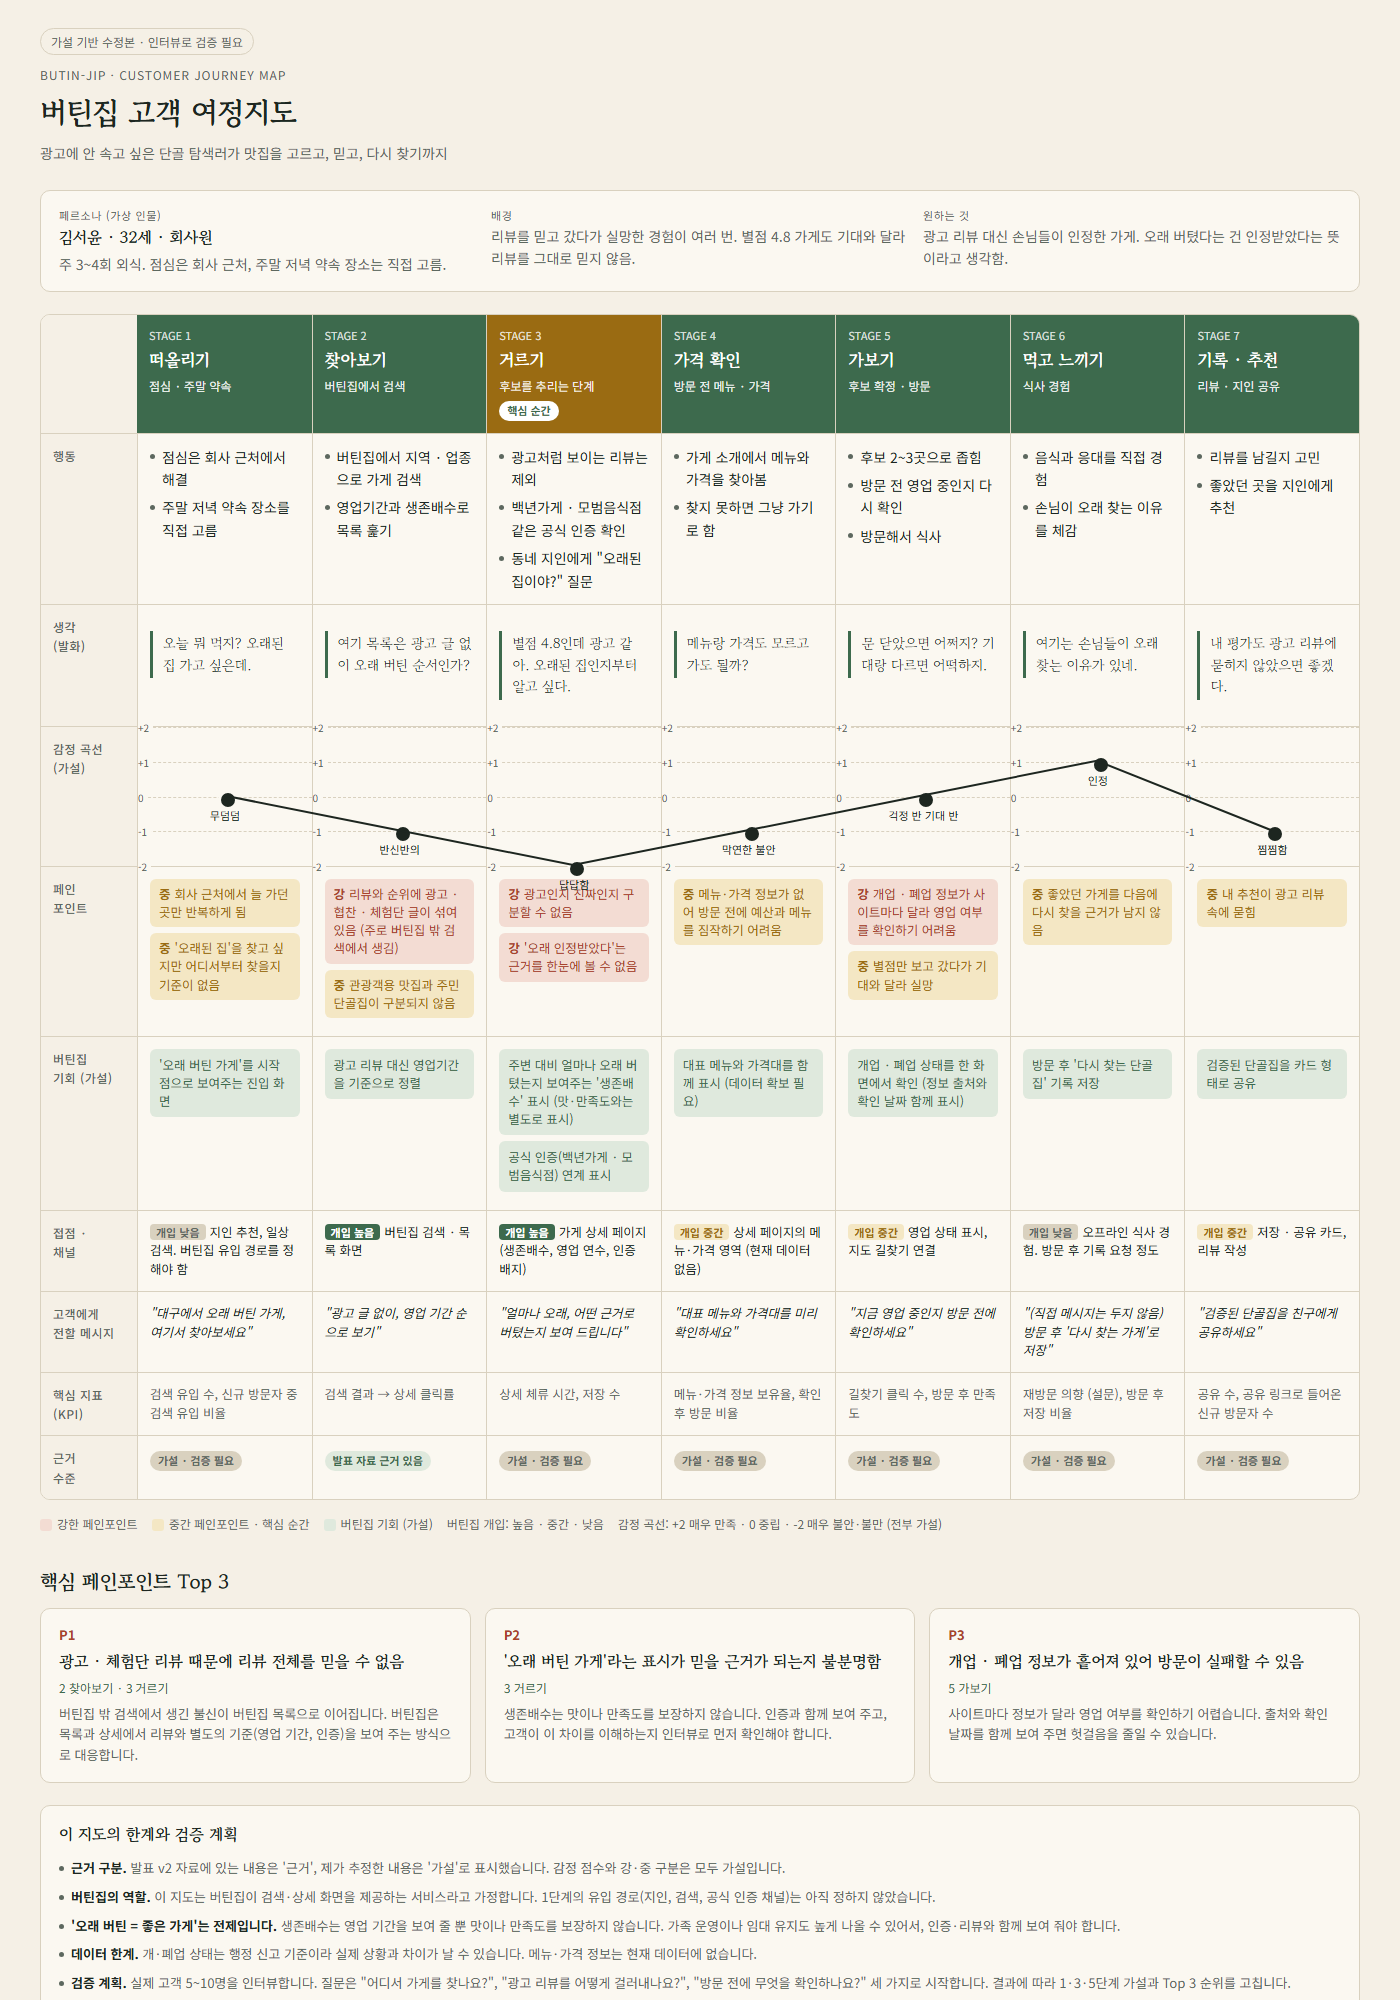
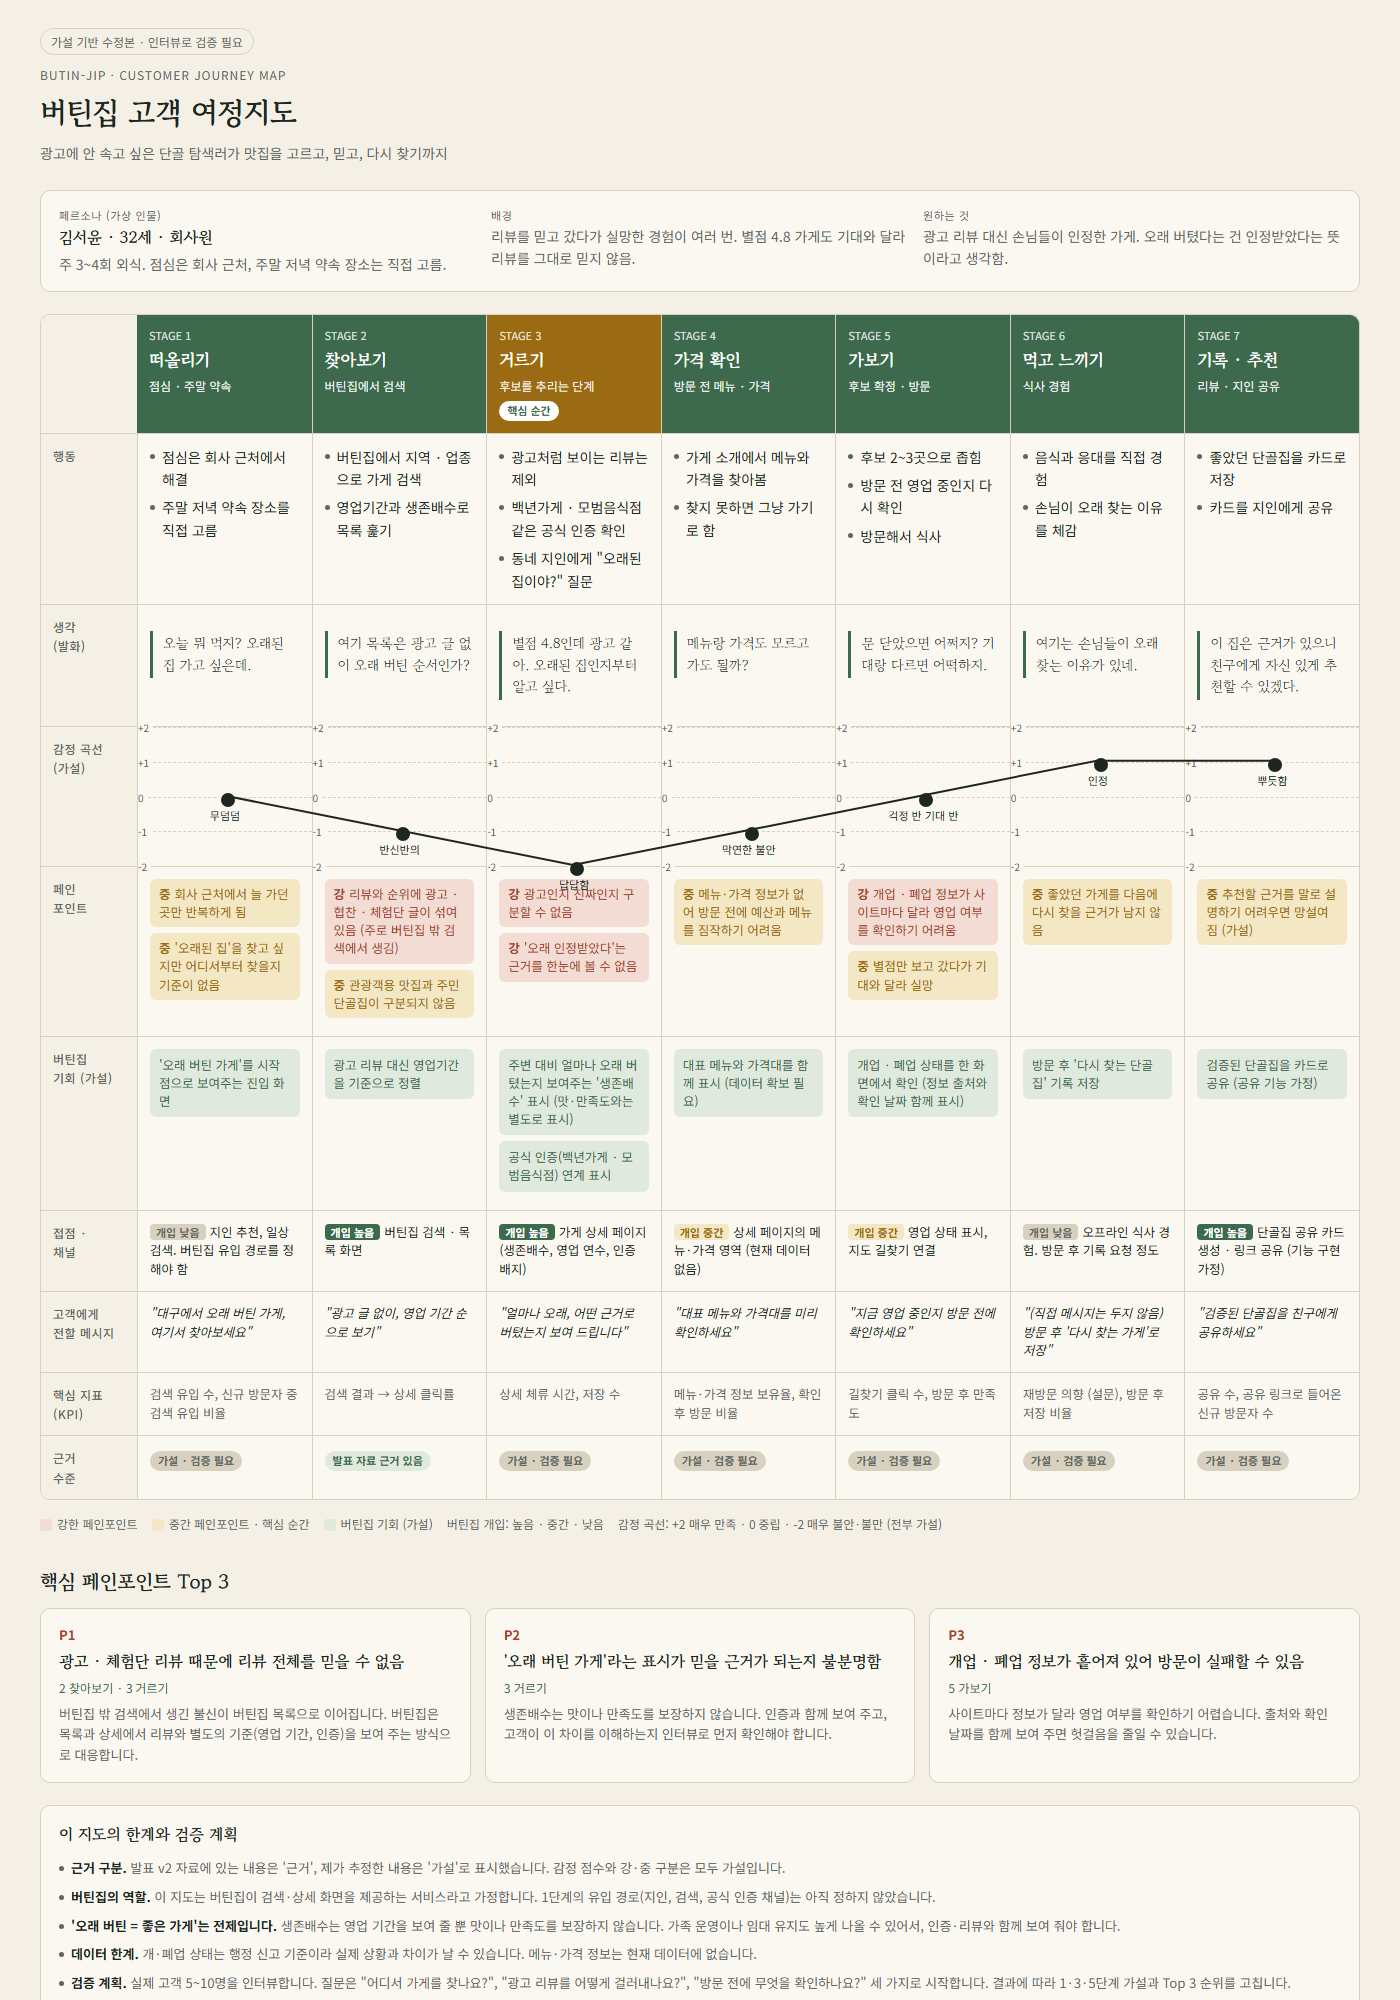
11월 9일 실습: 기록·추천 단계를 공유 기능 가정으로 수정

diff --git a/1109실습/버틴집_고객여정지도.md b/1109실습/버틴집_고객여정지도.md
@@ -16,10 +16,10 @@
 | 구분 | 1. 떠올리기 | 2. 찾아보기 | 3. 거르기 ★ | 4. 가격 확인 | 5. 가보기 | 6. 먹고 느끼기 | 7. 기록·추천 |
 |---|---|---|---|---|---|---|---|
 | **상황** | 점심·주말 약속 | 버틴집에서 검색 | 후보 추리기 | 방문 전 메뉴·가격 | 후보 확정·방문 | 식사 경험 | 리뷰·지인 공유 |
-| **감정 (-2~+2, 가설)** | 0 무덤덤 | -1 반신반의 | **-2 답답함** | -1 막연한 불안 | 0 걱정 반 기대 반 | +1 인정 | -1 찜찜함 |
+| **감정 (-2~+2, 가설)** | 0 무덤덤 | -1 반신반의 | **-2 답답함** | -1 막연한 불안 | 0 걱정 반 기대 반 | +1 인정 | +1 뿌듯함 |
 | **강한 페인포인트** | - | 리뷰·순위에 광고·협찬·체험단 글이 섞임 | 광고인지 구분 불가, 오래 인정받았다는 근거 부재 | - | 개·폐업 정보가 흩어져 영업 여부 확인 어려움 | - | - |
-| **버틴집 개입** | 낮음 | 높음 | 높음 | 중간 | 중간 | 낮음 | 중간 |
-| **버틴집 기회 (가설)** | '오래 버틴 가게'를 시작점으로 | 영업기간 기준 정렬 | 생존배수(맛·만족도와 별도 표시), 공식 인증 연계 | 대표 메뉴와 가격대 표시 (데이터 확보 필요) | 개·폐업 상태와 출처·확인 날짜 표시 | 다시 찾는 단골집 기록 | 검증된 단골집 카드 공유 |
+| **버틴집 개입** | 낮음 | 높음 | 높음 | 중간 | 중간 | 낮음 | 높음 |
+| **버틴집 기회 (가설)** | '오래 버틴 가게'를 시작점으로 | 영업기간 기준 정렬 | 생존배수(맛·만족도와 별도 표시), 공식 인증 연계 | 대표 메뉴와 가격대 표시 (데이터 확보 필요) | 개·폐업 상태와 출처·확인 날짜 표시 | 다시 찾는 단골집 기록 | 검증된 단골집 카드 공유 (공유 기능 가정) |
 | **고객에게 전할 메시지** | 대구에서 오래 버틴 가게, 여기서 찾아보세요 | 광고 글 없이, 영업 기간 순으로 보기 | 얼마나 오래, 어떤 근거로 버텼는지 보여 드립니다 | 대표 메뉴와 가격대를 미리 확인하세요 | 지금 영업 중인지 방문 전에 확인하세요 | (직접 메시지는 두지 않음) 방문 후 '다시 찾는 가게'로 저장 | 검증된 단골집을 친구에게 공유하세요 |
 | **핵심 지표 (KPI)** | 검색 유입 수, 신규 방문자 중 검색 유입 비율 | 검색 결과 → 상세 클릭률 | 상세 체류 시간, 저장 수 | 메뉴·가격 정보 보유율, 확인 후 방문 비율 | 길찾기 클릭 수, 방문 후 만족도 | 재방문 의향(설문), 방문 후 저장 비율 | 공유 수, 공유 링크로 들어온 신규 방문자 수 |
 | **근거 수준** | 가설 | 발표 자료 근거 있음 | 가설 | 가설 | 가설 | 가설 | 가설 |
@@ -107,13 +107,13 @@
 
 ### 7. 기록 · 추천 (리뷰 · 지인 공유)
 
-- **행동**: 리뷰를 남길지 고민. 좋았던 곳을 지인에게 추천
-- **생각(발화)**: "내 평가도 광고 리뷰에 묻히지 않았으면 좋겠다."
-- **감정**: -1 (찜찜함, 가설)
+- **행동**: 좋았던 단골집을 카드로 저장. 카드를 지인에게 공유
+- **생각(발화)**: "이 집은 근거가 있으니 친구에게 자신 있게 추천할 수 있겠다."
+- **감정**: +1 (뿌듯함, 가설). 공유 기능이 있어서 추천할 근거가 생김
 - **페인포인트**
-  - 🟡 **중**: 내 추천이 광고 리뷰 속에 묻힘
-- **버틴집 개입**: 중간. 저장 · 공유 카드, 리뷰 작성
-- **버틴집 기회**: 검증된 단골집을 카드 형태로 공유
+  - 🟡 **중**: 추천할 근거를 말로 설명하기 어려우면 망설여짐 (가설)
+- **버틴집 개입**: 높음. 단골집 공유 카드 생성 · 링크 공유 (기능 구현 가정)
+- **버틴집 기회**: 검증된 단골집을 카드로 공유 (공유 기능 가정)
 - **고객에게 전할 메시지**: "검증된 단골집을 친구에게 공유하세요"
 - **핵심 지표**: 공유 수, 공유 링크로 들어온 신규 방문자 수
 - **근거 수준**: 가설
